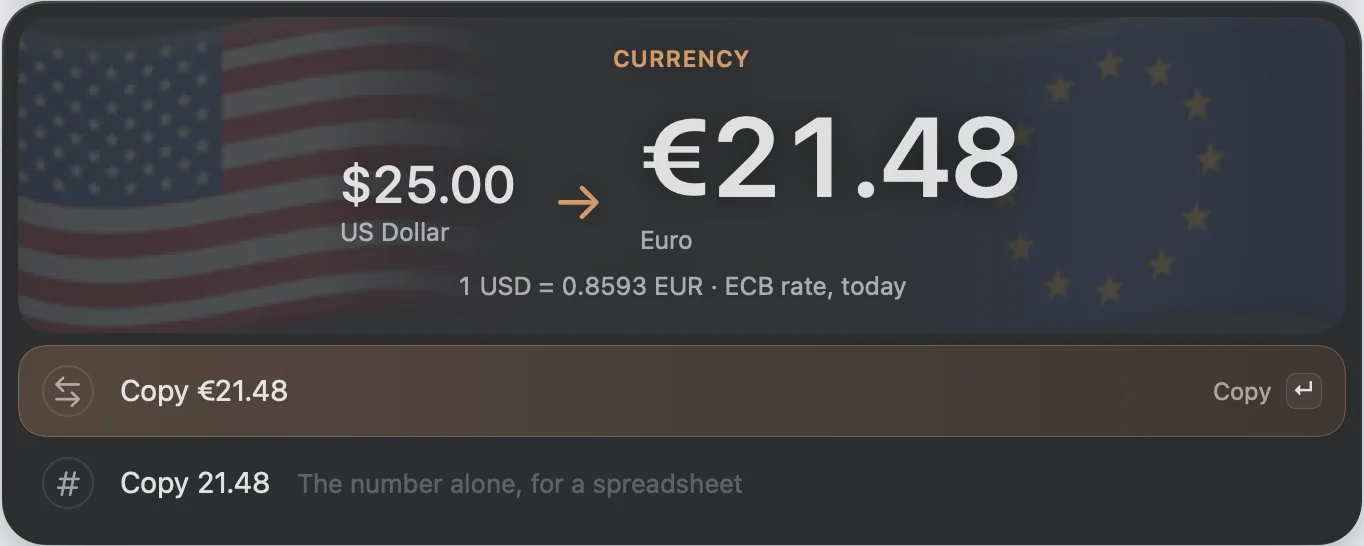
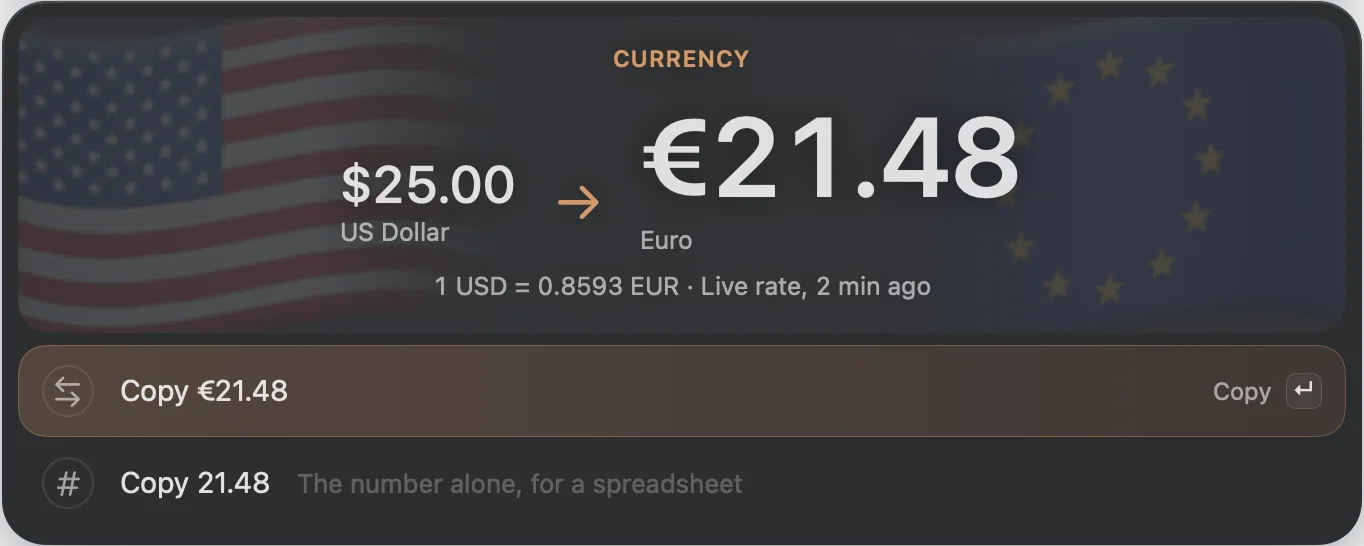
The currency card at the live rate

Changed region(s): [[0.3079, 0.4982, 0.6774, 0.5604]]

diff --git a/index.html b/index.html
@@ -222,7 +222,7 @@
             <p><span class="mono">define serendipity</span> The Mac&rsquo;s dictionary, set like a dictionary.</p>
           </li>
           <li class="answers__card" data-answer="25 usd to eur">
-            <img src="media/answer-currency-1364.webp" srcset="media/answer-currency-682.webp 682w, media/answer-currency-1364.webp 1364w" sizes="(max-width: 722px) calc(100vw - 40px), 682px" width="1364" height="546" loading="lazy" decoding="async" alt="$25.00 to &euro;21.48 big and centered, the rate and the ECB&rsquo;s date under it, the US and EU flags faint at each end, then Copy &euro;21.48 and the number alone">
+            <img src="media/answer-currency-1364.webp" srcset="media/answer-currency-682.webp 682w, media/answer-currency-1364.webp 1364w" sizes="(max-width: 722px) calc(100vw - 40px), 682px" width="1364" height="546" loading="lazy" decoding="async" alt="$25.00 to &euro;21.48 big and centered, the live rate under it, the US and EU flags faint at each end, then Copy &euro;21.48 and the number alone">
             <p><span class="mono">25 usd to eur</span> What you had and what it makes, between both flags.</p>
           </li>
           <li class="answers__card" data-answer="contact ana" data-text="ana" data-mode="Contact">
